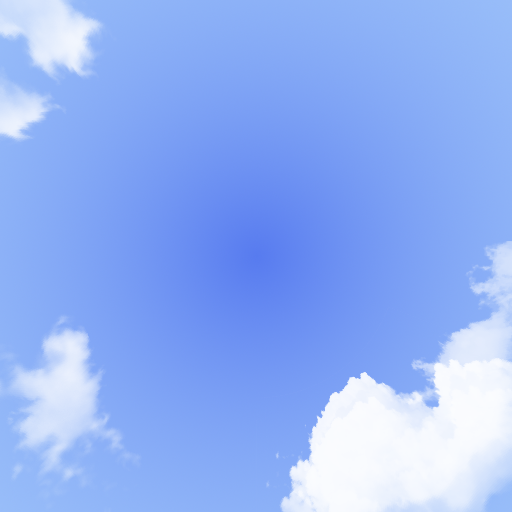
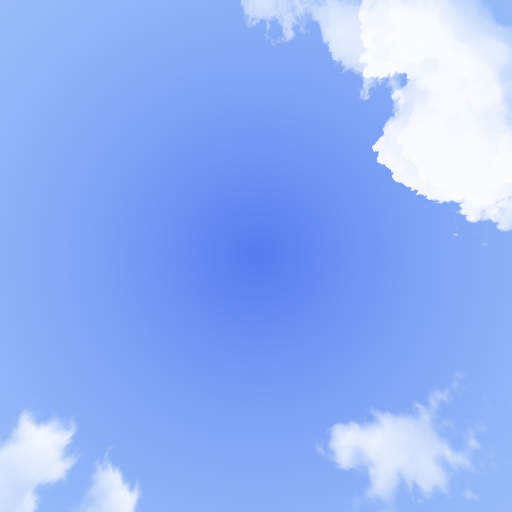
skybox environment

diff --git a/fp-grafkom/src/views/HomeView.vue b/fp-grafkom/src/views/HomeView.vue
@@ -34,13 +34,20 @@ export default {
   },
   methods: {
     init() {
-
-      this.camera = new Three.PerspectiveCamera(70, window.innerWidth/window.innerHeight, 0.01, 10);
-      this.camera.position.z = 1;
-      // this.camera = new Three.PerspectiveCamera(55, window.innerWidth/window.innerHeight, 45, 30000);
-      // this.camera.position.set(-900,-200,-900);
-
       this.scene = new Three.Scene();
+
+      this.camera = new Three.PerspectiveCamera(55, window.innerWidth/window.innerHeight, 45, 30000);
+      // this.camera.position.z = 0.5;
+      this.camera.position.set(-900,-200,-900);
+
+      this.renderer = new Three.WebGLRenderer({antialias: true});
+      this.renderer.setSize(window.innerWidth, window.innerHeight);
+      document.body.appendChild(this.renderer.domElement );
+      this.controls = new OrbitControls(this.camera, this.renderer.domElement);
+      this.controls.addEventListener('change',this.renderer);
+      this.controls.minDistance = 500;
+      this.controls.maxDistance = 1500;
+      // this.camera = new Three.PerspectiveCamera(55, window.innerWidth/window.innerHeight, 45, 30000);
 
       // let geometry = new Three.BoxGeometry(0.2, 0.2, 0.2);
       // let material = new Three.MeshNormalMaterial();
@@ -54,33 +61,31 @@ export default {
       let texture_bk = new Three.TextureLoader().load(back);
       let texture_bt = new Three.TextureLoader().load(bottom);
       let texture_ft = new Three.TextureLoader().load(front);
-      let texture_lf = new Three.TextureLoader().load(left);
-      let texture_rt = new Three.TextureLoader().load(right);
+      let texture_lf = new Three.TextureLoader().load(right);
+      let texture_rt = new Three.TextureLoader().load(left);
       let texture_tp = new Three.TextureLoader().load(top);
       
-      materialArray.push(new Three.MeshBasicMaterial({map: texture_bk}));
-      materialArray.push(new Three.MeshBasicMaterial({map: texture_bt}));
       materialArray.push(new Three.MeshBasicMaterial({map: texture_ft}));
-      materialArray.push(new Three.MeshBasicMaterial({map: texture_lf}));
-      materialArray.push(new Three.MeshBasicMaterial({map: texture_rt}));
+      materialArray.push(new Three.MeshBasicMaterial({map: texture_bk}));
       materialArray.push(new Three.MeshBasicMaterial({map: texture_tp}));
+      materialArray.push(new Three.MeshBasicMaterial({map: texture_bt}));
+      materialArray.push(new Three.MeshBasicMaterial({map: texture_rt}));
+      materialArray.push(new Three.MeshBasicMaterial({map: texture_lf}));
 
-      let skyboxGeo = new Three.BoxGeometry(0.2,0.2,0.2);
+      for(let i=0;i<6;i++)
+        materialArray[i].side = Three.BackSide;
+
+      let skyboxGeo = new Three.BoxGeometry(10000,10000,10000);
       this.skybox = new Three.Mesh(skyboxGeo, materialArray);
       this.scene.add(this.skybox);
-
-      this.renderer = new Three.WebGLRenderer({antialias: true});
-      this.renderer.setSize(window.innerWidth, window.innerHeight);
-      this.controls = new OrbitControls(this.camera, this.renderer.domElement);
-      document.body.appendChild(this.renderer.domElement );
 
       this.animate();
     },
     animate() {
+        this.renderer.render(this.scene, this.camera)
         requestAnimationFrame(this.animate);
         // this.skybox.rotation.x = this.skybox.rotation.x + 0.01;
         // this.skybox.rotation.y += 0.02;
-        this.renderer.render(this.scene, this.camera)
         this.controls.update()
         // console.log( this.mesh.rotation.y += 0.02)
     },
